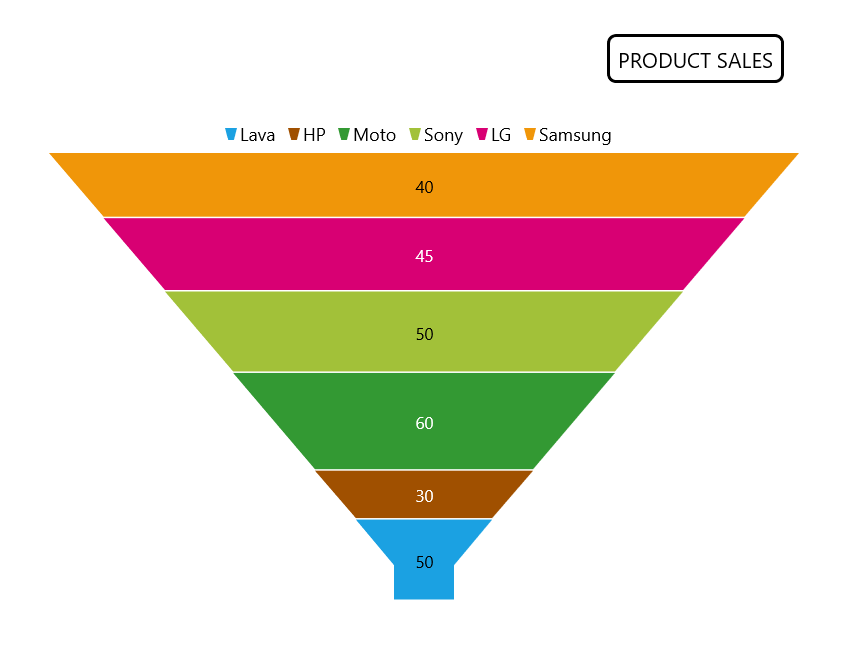
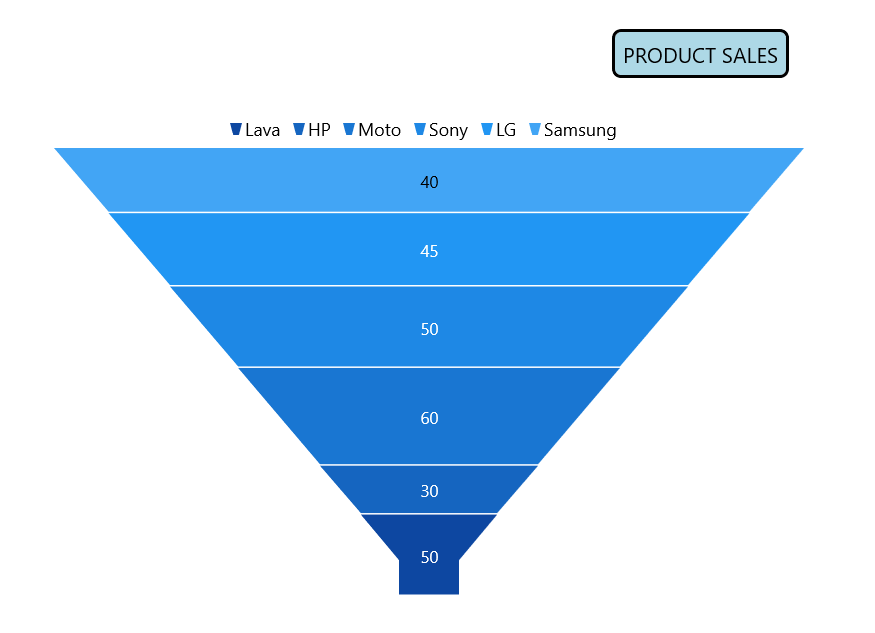
image changed

diff --git a/winui/Funnel-Chart/Title.md b/winui/Funnel-Chart/Title.md
@@ -65,11 +65,12 @@ You can align the title text content horizontally to the left, center or right o
  <chart:SfFunnelChart x:Name="chart" 
                 HorizontalHeaderAlignment="Right"
                 ShowTooltip="True"
+                Palette="BlueChrome"
                 Height="388" Width="500" 
                 ItemsSource="{Binding Data}" 
                 XBindingPath="Category"
                 YBindingPath="Value">
-
+                
             <chart:SfFunnelChart.Header>
                 <Border BorderThickness="2" BorderBrush="Black" Margin="10" CornerRadius="5">
                     <TextBlock FontSize="14" Text="PRODUCT SALES" Margin="5"/>
@@ -105,6 +106,7 @@ public sealed partial class MainPage : Page
         chart.DataContext = viewModel;
         chart.SetBinding(SfFunnelChart.ItemsSourceProperty, new Binding() { Path = new PropertyPath("Data") });
         chart.HorizontalHeaderAlignment = HorizontalAlignment.Right;
+        chart.Palette = ChartColorPalette.BlueChrome;
         chart.XBindingPath = "Category";
         chart.YBindingPath = "Value";
         chart.Height = 388;
@@ -114,6 +116,7 @@ public sealed partial class MainPage : Page
         {
             BorderThickness = new Thickness(2),
             BorderBrush = new SolidColorBrush(Colors.Black),
+            Background = new SolidColorBrush(Colors.LightBlue),
             Margin = new Thickness(10),
             CornerRadius = new CornerRadius(5)
         };
